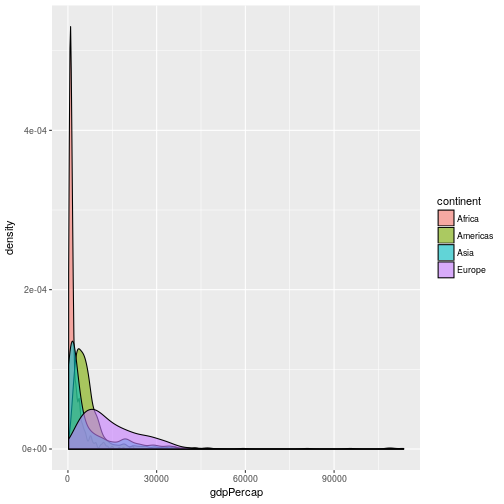
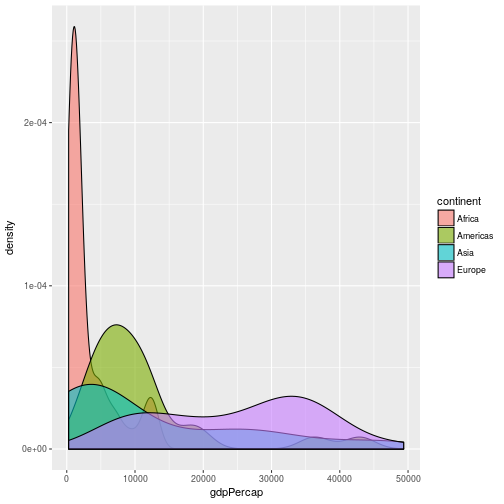
Fix typo

diff --git a/_episodes/05-plot-ggplot2.md b/_episodes/05-plot-ggplot2.md
@@ -434,80 +434,79 @@ x-axis.  If we want plot the y-axis on a log scale we can use the `scale_y_log10
 > > between the difference continents much less obvious.  
 > > 
 > > If we plot the data with a linear scale the inequality is more obvious, but this masks the individual trajectories of
-> > many countries' GDPs . Decisions about how best to plot data are beyond the scope of this course.  Research IT offers a course, [Introducton to data visualisation and analysis](https://app.manchester.ac.uk/rintrovis), which covers this topic in much more detail.
+> > many countries' GDPs . Decisions about how best to plot data are beyond the scope of this course.  Research IT offers a course, [Introduction to data visualisation and analysis](https://app.manchester.ac.uk/rintrovis), which covers this topic in much more detail.
 > > 
 > {: .solution}
 {: .challenge}
 
-
-
-## Plotting 1D data
-
-In the examples so far we've plotted one variable against another.  Often we wish to plot single variable. We can
-plot counts using `geom_bar()`.  For example, to plot the number of counties in the gapminder data that are in each
-continent we can use:
-
-
-~~~
-gapminder %>% filter(year == 2007) %>%
-  ggplot(aes(x=continent)) + 
-  geom_bar()
-~~~
-{: .language-r}
-
-<img src="../fig/rmd-06-unnamed-chunk-10-1.png" title="plot of chunk unnamed-chunk-10" alt="plot of chunk unnamed-chunk-10" style="display: block; margin: auto;" />
-
-We filter to a single year of data to avoid multiple counting
-
-We often wish to explore the distribution of a continuous variable.  We can do this using a histogram (`geom_histogram()`), 
-or a density plot (`geom_density()`)
-
-For example, to produce a histogram of GDPs per capita for countries in Europe in 2007:
-
-
-~~~
-gapminder %>% filter(year == 2007, continent == "Europe") %>% 
-  ggplot(aes(x=gdpPercap)) + geom_histogram(bins = 10)
-~~~
-{: .language-r}
-
-<img src="../fig/rmd-06-unnamed-chunk-11-1.png" title="plot of chunk unnamed-chunk-11" alt="plot of chunk unnamed-chunk-11" style="display: block; margin: auto;" />
-
-We can specify the number of bins (`bins = `), or the width of a bin (`binwidth = `).
-
-We can plot a density plot using `geom_density()`.  This is a smoothed version of a histogram.
-
-
-~~~
-gapminder %>% filter(year == 2007, continent == "Europe") %>% 
-  ggplot(aes(x = gdpPercap, fill = continent)) + geom_density() 
-~~~
-{: .language-r}
-
-<img src="../fig/rmd-06-unnamed-chunk-12-1.png" title="plot of chunk unnamed-chunk-12" alt="plot of chunk unnamed-chunk-12" style="display: block; margin: auto;" />
-
-
-
-> ## Challenge 5
->
->  Create a density plot of GDP per capita, filled by continent. You 
-> may find making the density estimates partially transparent produces a clearer graph.
-> As there are only 2 countries in Oceania, a density plot isn't going to be useful for
-> this continent, so don't plot the data for it.
+> ## Plotting 1D data
 > 
-> Advanced:
->
->  - Log transform the x axis to better visualise the data spread.
->  - Add a facet layer produce a separate density plot for each year.
->
-> > ## Solution to challenge 5
-> >
+> In the examples so far we've plotted one variable against another.  Often we wish to plot single variable. We can
+> plot counts using `geom_bar()`.  For example, to plot the number of counties in the gapminder data that are in each
+> continent we can use:
+> 
+> 
+> ~~~
+> gapminder %>% filter(year == 2007) %>%
+>   ggplot(aes(x=continent)) + 
+>   geom_bar()
+> ~~~
+> {: .language-r}
+> 
+> <img src="../fig/rmd-06-unnamed-chunk-10-1.png" title="plot of chunk unnamed-chunk-10" alt="plot of chunk unnamed-chunk-10" style="display: block; margin: auto;" />
+> 
+> We filter to a single year of data to avoid multiple counting
+> 
+> We often wish to explore the distribution of a continuous variable.  We can do this using a histogram (`geom_histogram()`), 
+> or a density plot (`geom_density()`)
+> 
+> For example, to produce a histogram of GDPs per capita for countries in Europe in 2007:
+> 
+> 
+> ~~~
+> gapminder %>% filter(year == 2007, continent == "Europe") %>% 
+>   ggplot(aes(x=gdpPercap)) + geom_histogram(bins = 10)
+> ~~~
+> {: .language-r}
+> 
+> <img src="../fig/rmd-06-unnamed-chunk-11-1.png" title="plot of chunk unnamed-chunk-11" alt="plot of chunk unnamed-chunk-11" style="display: block; margin: auto;" />
+> 
+> We can specify the number of bins (`bins = `), or the width of a bin (`binwidth = `).
+> 
+> We can plot a density plot using `geom_density()`.  This is a smoothed version of a histogram.
+> 
+> 
+> ~~~
+> gapminder %>% 
+>   filter(year == 2007, continent == "Europe") %>% 
+>   ggplot(aes(x = gdpPercap, fill = continent)) + 
+>   geom_density() 
+> ~~~
+> {: .language-r}
+> 
+> <img src="../fig/rmd-06-unnamed-chunk-12-1.png" title="plot of chunk unnamed-chunk-12" alt="plot of chunk unnamed-chunk-12" style="display: block; margin: auto;" />
+> 
+> > ## Challenge 5
+> > 
+> > Create a density plot of GDP per capita, filled by continent. You 
+> > may find making the density estimates partially transparent produces a clearer graph.
+> > As there are only 2 countries in Oceania, a density plot isn't going to be useful for
+> > this continent, so don't plot the data for it.
+> > 
+> > Advanced:
+> > 
+> >  - Log transform the x axis to better visualise the data spread.
+> >  - Add a facet layer produce a separate density plot for each year.
+> > 
+> > > ## Solution to challenge 5
+> > 
 > > 
 > > ~~~
 > >  gapminder %>%  
-> >  filter(continent != "Oceania") %>% 
-> >  ggplot(aes(x = gdpPercap, fill = continent)) +
-> >  geom_density(alpha = 0.6) 
+> >   filter(year == 2007) %>% 
+> >   filter(continent != "Oceania") %>% 
+> >   ggplot(aes(x = gdpPercap, fill = continent)) +
+> >   geom_density(alpha = 0.6) 
 > > ~~~
 > > {: .language-r}
 > > 
@@ -518,8 +517,8 @@ gapminder %>% filter(year == 2007, continent == "Europe") %>%
 > > ~~~
 > >  gapminder %>%  
 > >  filter(continent != "Oceania") %>% 
-> >  ggplot(aes(x = gdpPercap, fill = continent)) +
-> >  geom_density(alpha = 0.6) + facet_wrap( ~ year) + scale_x_log10()
+> >   ggplot(aes(x = gdpPercap, fill = continent)) +
+> >   geom_density(alpha = 0.6) + facet_wrap( ~ year) + scale_x_log10()
 > > ~~~
 > > {: .language-r}
 > > 
@@ -600,7 +599,6 @@ ggsave("plots/myplot.pdf", width = 20, height = 20, units = "cm")
 {: .language-r}
 
 The help for the `ggsave()` function lists the image formats that are available, as well as the options for setting the resolution and size of the saved image.
-
 
 ## ggplot themes and extensions
 
